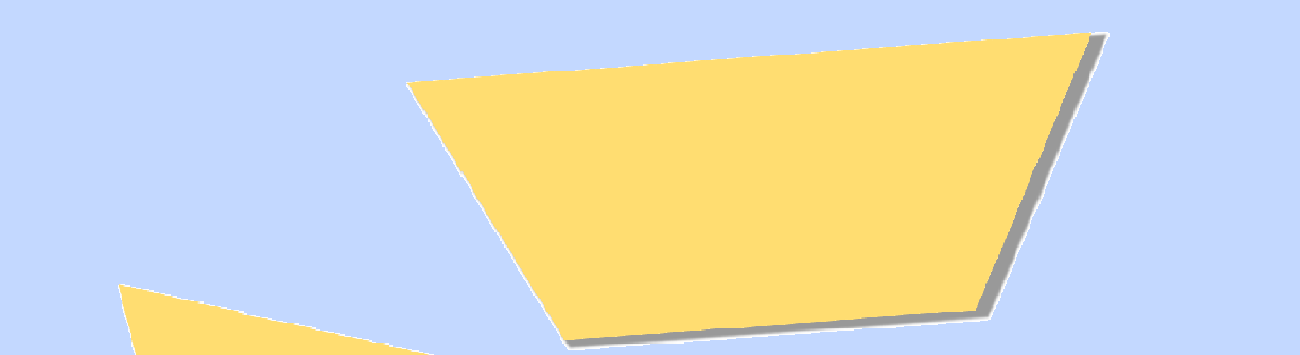
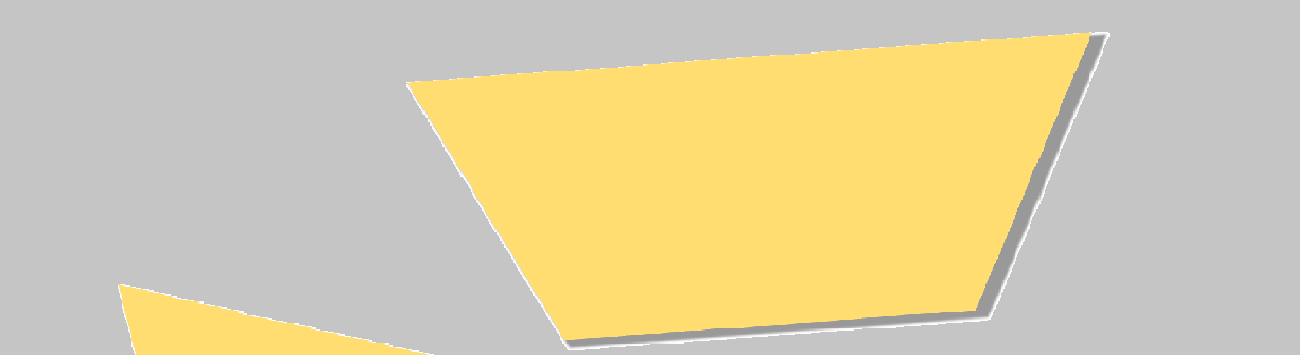
Update portfolio

diff --git a/portfolio.html b/portfolio.html
@@ -52,9 +52,5 @@
 
 
     <p class="Estilo4">I love play volleyball and swimming, i like read boocs and i sepeak Englis and Spanish. i so goos in maths and learn faster</p>  </td>
-  <td style="background-color:#b9b9b9e6"></td>
-</tr>
-  </tr>
-</table>
 </body>
 </html>

diff --git a/Style.css b/Style.css
@@ -3,7 +3,7 @@ body{
 }
 #bace{
   margin: auto;
-  background-color: #c3d8ff;
+  background-color: #c5c5c5;
   width: 95%;
   text-align: center;
 }
